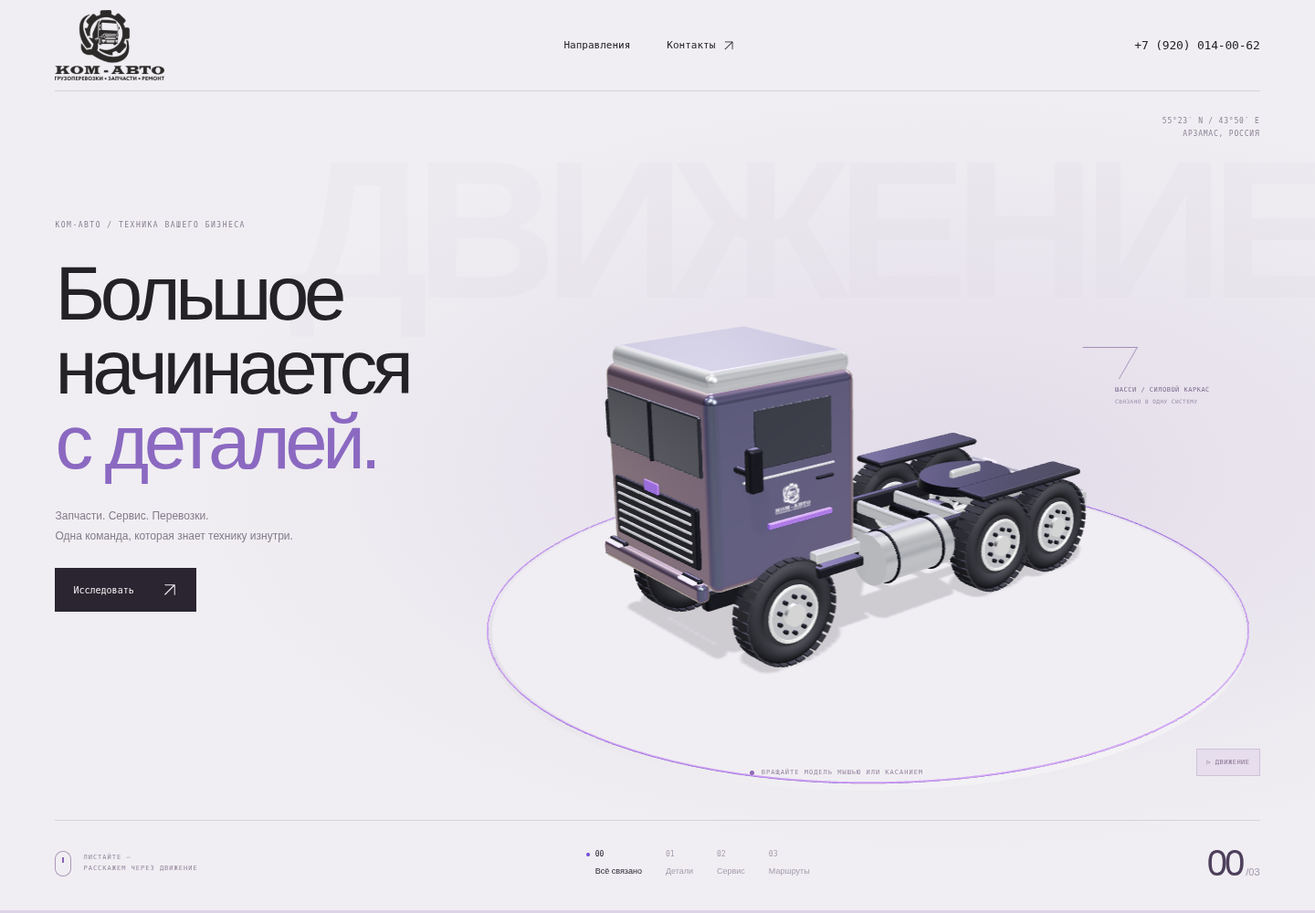
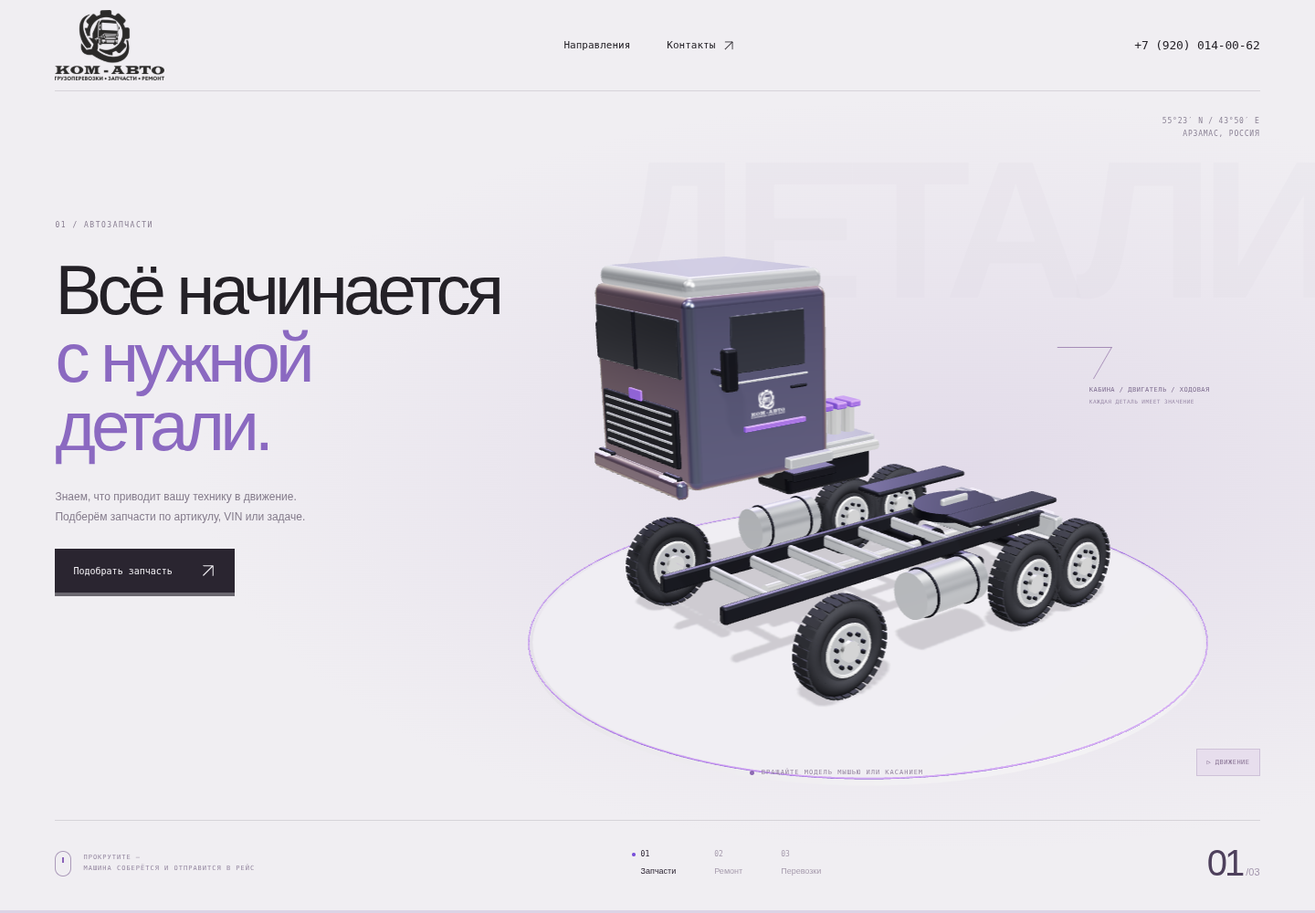
Connect parts, repair assembly and departure in one scroll story

diff --git a/src/experience.js b/src/experience.js
@@ -1,13 +1,13 @@
 import './experience.css';
+import { chapterPositions, getStoryState } from './experience/story-state.js';
 
 const base = import.meta.env.BASE_URL;
 const link = (route) => base === '/' ? route : `${base}?page=${route.replace(/^\//,'')}`;
 const arrow = '<svg viewBox="0 0 24 24" aria-hidden="true"><path d="M5 19 19 5M5 5h14v14"/></svg>';
 const chapters = [
-  {eyebrow:'КОМ-АВТО / ТЕХНИКА ВАШЕГО БИЗНЕСА', title:'Большое<br>начинается<br><em>с деталей.</em>', description:'Запчасти. Сервис. Перевозки. <br>Одна команда, которая знает технику изнутри.', button:'Исследовать', word:'ДВИЖЕНИЕ', label:'Всё связано', detail:'01 / ИНЖЕНЕРИЯ ДВИЖЕНИЯ'},
-  {eyebrow:'01 / ЗАПЧАСТИ ДЛЯ ГРУЗОВОЙ ТЕХНИКИ', title:'У каждой<br>детали —<br><em>своя сила.</em>', description:'От расходников до сложных узлов. <br>Подбираем по артикулу, VIN или вашей задаче.', button:'Подобрать запчасть', word:'ИЗНУТРИ', label:'Сила деталей', detail:'02 / ОТ ЦЕЛОГО К ДЕТАЛЯМ'},
-  {eyebrow:'02 / ГРУЗОВОЙ АВТОСЕРВИС', title:'Вернуть<br>в рабочий<br><em>ритм.</em>', description:'Техническое обслуживание, ремонт и помощь <br>на дороге в Арзамасе и районе.', button:'Обсудить ремонт', word:'ТОЧНОСТЬ', label:'В рабочем ритме', detail:'03 / ВНИМАНИЕ К КАЖДОМУ УЗЛУ'},
-  {eyebrow:'03 / ГРУЗОПЕРЕВОЗКИ', title:'Расстояния<br>становятся<br><em>маршрутами.</em>', description:'Подбираем транспорт и организуем перевозку. <br>Из Арзамаса — по России и СНГ.', button:'Запросить расчёт', word:'ДАЛЬШЕ', label:'Впереди — маршрут', detail:'04 / ОТ ЗАДАЧИ ДО ТОЧКИ НАЗНАЧЕНИЯ'},
+  {eyebrow:'01 / АВТОЗАПЧАСТИ', title:'Всё начинается<br><em>с нужной<br>детали.</em>', description:'Знаем, что приводит вашу технику в движение. <br>Подберём запчасти по артикулу, VIN или задаче.', button:'Подобрать запчасть', word:'ДЕТАЛИ', label:'Запчасти'},
+  {eyebrow:'02 / ГРУЗОВОЙ АВТОСЕРВИС', title:'Каждый узел.<br>На своём<br><em>месте.</em>', description:'От отдельных деталей — к работающей машине. <br>Ремонт и обслуживание в Арзамасе и районе.', button:'Обсудить ремонт', word:'СОБИРАЕМ', label:'Ремонт'},
+  {eyebrow:'03 / ГРУЗОПЕРЕВОЗКИ', title:'Машина готова.<br><em>Впереди —<br>ваш маршрут.</em>', description:'Техника в работе. Груз в пути. <br>Организуем перевозку по России и СНГ.', button:'Запросить расчёт', word:'В РЕЙС', label:'Перевозки'},
 ];
 const logo = `<a class="x-logo" href="${base}" aria-label="КОМ-АВТО — главная"><img src="${base}images/logo-dark.png" alt="КОМ-АВТО. Грузоперевозки · Запчасти · Ремонт" width="210" height="134"></a>`;
 
@@ -17,14 +17,14 @@ document.querySelector('#app').innerHTML = `<div class="x-site">
 <section class="x-story" aria-label="Запчасти, сервис и перевозки КОМ-АВТО">
  <div class="x-stage">
   <header class="x-header">${logo}<nav aria-label="Навигация"><a href="#x-directions">Направления</a><a href="${link('/contacts')}">Контакты ${arrow}</a></nav><a class="x-header-phone" href="tel:+79200140062">+7 (920) 014-00-62</a></header>
-  <div class="x-ghost" aria-hidden="true">ДВИЖЕНИЕ</div>
+  <div class="x-ghost" aria-hidden="true">ДЕТАЛИ</div>
   <div class="x-coordinates" aria-hidden="true">55°23′ N / 43°50′ E<br>АРЗАМАС, РОССИЯ</div>
   <div class="x-canvas-wrap"><img class="x-fallback" src="${base}images/truck.webp" alt="Грузовой тягач" width="1080" height="686"><canvas class="x-canvas" tabindex="0" role="img" aria-label="Интерактивная стилизованная 3D-модель грузовика. Вращайте перетаскиванием или стрелками влево и вправо."></canvas><span class="x-loading">СОБИРАЕМ ДВИЖЕНИЕ<span></span></span></div>
-  <div class="x-chapter-copy" id="x-content"><p class="x-eyebrow" id="x-eyebrow">${chapters[0].eyebrow}</p><h1 id="x-title">${chapters[0].title}</h1><p class="x-description" id="x-description">${chapters[0].description}</p><button class="x-primary" id="x-action">Исследовать ${arrow}</button></div>
-  <div class="x-part-note" aria-hidden="true"><span></span><p id="x-technical-label">ШАССИ / СИЛОВОЙ КАРКАС</p><small>СВЯЗАНО В ОДНУ СИСТЕМУ</small></div>
+  <div class="x-chapter-copy" id="x-content"><p class="x-eyebrow" id="x-eyebrow">${chapters[0].eyebrow}</p><h1 id="x-title">${chapters[0].title}</h1><p class="x-description" id="x-description">${chapters[0].description}</p><button class="x-primary" id="x-action">${chapters[0].button} ${arrow}</button></div>
+  <div class="x-part-note" aria-hidden="true"><span></span><p id="x-technical-label">КАБИНА / ДВИГАТЕЛЬ / ХОДОВАЯ</p><small>КАЖДАЯ ДЕТАЛЬ ИМЕЕТ ЗНАЧЕНИЕ</small></div>
   <button class="x-motion-toggle" aria-pressed="false" aria-label="Остановить автоматическое движение">Ⅱ ПАУЗА</button><div class="x-orbit-label"><span class="x-status-dot"></span><span id="x-interaction-hint">ВРАЩАЙТЕ МОДЕЛЬ МЫШЬЮ ИЛИ КАСАНИЕМ</span></div>
-  <div class="x-route-note" hidden><span>АРЗАМАС</span><span>РОССИЯ И СНГ</span><small>СХЕМА МАРШРУТА · НЕ ТРЕКИНГ</small></div>
-  <div class="x-chapter-footer"><div class="x-scroll"><span class="x-scroll-icon" aria-hidden="true"></span><span>ЛИСТАЙТЕ —<br>РАССКАЖЕМ ЧЕРЕЗ ДВИЖЕНИЕ</span></div><nav class="x-chapters" aria-label="Сцены"><button aria-label="Сцена 1: грузовик" aria-current="step" data-chapter="0"><span>00</span>Всё связано</button><button aria-label="Сцена 2: запчасти" data-chapter="1"><span>01</span>Детали</button><button aria-label="Сцена 3: сервис" data-chapter="2"><span>02</span>Сервис</button><button aria-label="Сцена 4: перевозки" data-chapter="3"><span>03</span>Маршруты</button></nav><span class="x-scene-number" aria-hidden="true">00<span>/03</span></span></div>
+  <div class="x-route-note" hidden><span>ГОТОВА К РЕЙСУ</span><span>РОССИЯ И СНГ</span><small>ИЛЛЮСТРАЦИЯ ПЕРЕВОЗКИ · НЕ ТРЕКИНГ</small></div>
+  <div class="x-chapter-footer"><div class="x-scroll"><span class="x-scroll-icon" aria-hidden="true"></span><span>ПРОКРУТИТЕ —<br>МАШИНА СОБЕРЁТСЯ И ОТПРАВИТСЯ В РЕЙС</span></div><nav class="x-chapters" aria-label="Сцены">${chapters.map((chapter,index)=>`<button aria-label="Сцена ${index+1}: ${chapter.label}" ${index===0?'aria-current="step"':''} data-chapter="${index}"><span>0${index+1}</span>${chapter.label}</button>`).join('')}</nav><span class="x-scene-number" aria-hidden="true">01<span>/03</span></span></div>
   <div class="x-progress" aria-hidden="true"><span></span></div>
  </div>
 </section>
@@ -49,9 +49,9 @@ let active = 0;
 let scene;
 let progress = 0;
 let destroyed = false;
-const sceneButtons = [...document.querySelectorAll('[data-chapter]')];
+const sceneButtons = [...document.querySelectorAll('.x-chapters button')];
 function goToChapter(index) {
- const top = story.offsetTop + (story.offsetHeight - stage.offsetHeight) * (index / 3);
+ const top = story.offsetTop + (story.offsetHeight - stage.offsetHeight) * chapterPositions[index];
  scrollTo({top, behavior:reduce.matches ? 'instant':'smooth'});
 }
 function showChapter(index) {
@@ -63,10 +63,10 @@ function showChapter(index) {
  document.querySelector('#x-description').innerHTML=chapter.description;
  document.querySelector('#x-action').innerHTML=chapter.button+' '+arrow;
  document.querySelector('.x-ghost').textContent=chapter.word;
- document.querySelector('.x-scene-number').innerHTML=`0${index}<span>/03</span>`;
- document.querySelector('#x-technical-label').textContent=['ШАССИ / СИЛОВОЙ КАРКАС','ДВИГАТЕЛЬ / КАБИНА / ХОДОВАЯ','КОЛЕСО / ТОЧКА КОНТАКТА','МАРШРУТ / ОТ ТОЧКИ К ТОЧКЕ'][index];
- document.querySelector('.x-route-note').hidden=index!==3;
- document.querySelector('.x-part-note').hidden=index===3;
+ document.querySelector('.x-scene-number').innerHTML=`0${index+1}<span>/03</span>`;
+ document.querySelector('#x-technical-label').textContent=['КАБИНА / ДВИГАТЕЛЬ / ХОДОВАЯ','СОБИРАЕМ В ОДНУ СИСТЕМУ','ГОТОВАЯ МАШИНА / НОВЫЙ МАРШРУТ'][index];
+ document.querySelector('.x-route-note').hidden=index!==2;
+ document.querySelector('.x-part-note').hidden=index===2;
  stage.dataset.chapter=String(index);
  sceneButtons.forEach((button,i)=>{if(i===index)button.setAttribute('aria-current','step');else button.removeAttribute('aria-current');});
 }
@@ -76,7 +76,7 @@ function updateScroll() {
  if(destroyed)return;
  const distance=story.offsetHeight-stage.offsetHeight;
  progress=distance>0?Math.max(0,Math.min(1,(scrollY-story.offsetTop)/distance)):0;
- showChapter(Math.min(3,Math.floor(progress*3+0.48)));
+ showChapter(getStoryState(progress).chapter);
  document.querySelector('.x-progress span').style.transform=`scaleX(${progress})`;
  scene?.setProgress(progress);
 }
@@ -92,7 +92,7 @@ function contact(id){
  document.querySelector('#x-dialog-extra').innerHTML=cargo?'Дополнительный контакт: <a href="tel:+79200140062">+7 (920) 014-00-62</a>':'';
  dialog.showModal();
 }
- document.querySelector('#x-action').addEventListener('click',()=>active===0?goToChapter(1):contact(['','parts','service','cargo'][active]));
+ document.querySelector('#x-action').addEventListener('click',()=>contact(['parts','service','cargo'][active]));
  document.querySelectorAll('[data-contact]').forEach(button=>button.addEventListener('click',()=>contact(button.dataset.contact)));
  document.querySelector('.x-close').addEventListener('click',()=>dialog.close());
  dialog.addEventListener('click',e=>{if(e.target===dialog){const r=dialog.getBoundingClientRect();if(e.clientX<r.left||e.clientX>r.right||e.clientY<r.top||e.clientY>r.bottom)dialog.close();}});

diff --git a/src/experience/scene.js b/src/experience/scene.js
@@ -1,4 +1,5 @@
 import * as THREE from 'three';
+import { getStoryState } from './story-state.js';
 import { RoundedBoxGeometry } from 'three/addons/geometries/RoundedBoxGeometry.js';
 import { RoomEnvironment } from 'three/addons/environments/RoomEnvironment.js';
 
@@ -23,8 +24,9 @@ export function createTruckScene(canvas,{reducedMotion=false}={}) {
  const violetLight=new THREE.MeshStandardMaterial({color:'#cfbcff',emissive:'#8a60ff',emissiveIntensity:1.8});
  const chrome=new THREE.MeshStandardMaterial({color:'#e5e6e7',metalness:1,roughness:.13});
  const ground=new THREE.Mesh(new THREE.PlaneGeometry(200,200),new THREE.ShadowMaterial({opacity:.12}));ground.rotation.x=-Math.PI/2;ground.receiveShadow=true;ground.position.y=-.02;scene.add(ground);
- const turntable=new THREE.Mesh(new THREE.CylinderGeometry(4.65,4.7,.07,100),new THREE.MeshStandardMaterial({color:'#c7bfd0',metalness:.15,roughness:.8}));turntable.position.y=-.075;turntable.receiveShadow=true;scene.add(turntable);
- const ring=new THREE.Mesh(new THREE.TorusGeometry(4.7,.008,6,128),purple);ring.rotation.x=Math.PI/2;ring.position.y=-.025;scene.add(ring);
+ const turntable=new THREE.Mesh(new THREE.CylinderGeometry(4.65,4.7,.07,100),new THREE.MeshStandardMaterial({color:'#c7bfd0',metalness:.15,roughness:.8,transparent:true}));turntable.material.depthWrite=false;turntable.position.y=-.075;turntable.receiveShadow=true;scene.add(turntable);
+ const ringMaterial=purple.clone();ringMaterial.transparent=true;ringMaterial.depthWrite=false;
+ const ring=new THREE.Mesh(new THREE.TorusGeometry(4.7,.008,6,128),ringMaterial);ring.rotation.x=Math.PI/2;ring.position.y=-.025;scene.add(ring);
  const truck=new THREE.Group();scene.add(truck);
  const chassis=new THREE.Group();truck.add(chassis);
  function mesh(geo,mat,parent,x=0,y=0,z=0){const o=new THREE.Mesh(geo,mat);o.position.set(x,y,z);o.castShadow=true;o.receiveShadow=true;parent.add(o);return o;}
@@ -107,47 +109,73 @@ export function createTruckScene(canvas,{reducedMotion=false}={}) {
  }
  [-.4,.4].forEach(z=>{const pipe=cyl(.07,.07,1.48,chrome,engine,0,.42,z);pipe.rotation.z=Math.PI/2;});
  const engineFan=mesh(new THREE.TorusGeometry(.23,.04,8,24),silver,engine,-.8,.42,0);engineFan.rotation.y=Math.PI/2;
- const service=new THREE.Group();scene.add(service);service.visible=false;
- const serviceWheel=wheel(service,0,1.8,0);serviceWheel.scale.setScalar(2.5);serviceWheel.rotation.y=-.2;
- const serviceRing=mesh(new THREE.TorusGeometry(1.9,.012,6,100),purple,service,0,1.8,0);
- const scanner=box(4,.015,.015,violetLight,service,0,1.8,1.6,.005);
- const route=new THREE.Group();scene.add(route);route.visible=false;
- const points=[new THREE.Vector3(-4,.02,.6),new THREE.Vector3(-2,.02,-1.5),new THREE.Vector3(0,.02,-.9),new THREE.Vector3(2,.02,1.2),new THREE.Vector3(4,.02,.3)];
- const curve=new THREE.CatmullRomCurve3(points);
- mesh(new THREE.TubeGeometry(curve,120,.045,8,false),purple,route);
- const road=mesh(new THREE.TubeGeometry(curve,120,.18,8,false),new THREE.MeshStandardMaterial({color:'#d7d1e4',roughness:.8}),route);road.scale.y=.05;road.position.y=-.005;
- [points[0],points[4]].forEach(p=>{const marker=cyl(.1,.1,.07,purple,route,p.x,.07,p.z);const r=mesh(new THREE.TorusGeometry(.28,.02,8,40),purple,route,p.x,.04,p.z);r.rotation.x=Math.PI/2;});
+ // A full-size road grows out of the studio floor. The same assembled truck
+ // follows it; no miniature replacement or separate service-wheel scene.
+ const route=new THREE.Group();scene.add(route);
+ const driveCurve=new THREE.CatmullRomCurve3([
+  new THREE.Vector3(0,0,0),new THREE.Vector3(-.7,0,0),
+  new THREE.Vector3(-1.5,0,-2),new THREE.Vector3(.8,0,-4),new THREE.Vector3(6.6,0,-4),
+ ]);
+ const roadCurve=new THREE.CatmullRomCurve3([
+  new THREE.Vector3(4.5,.005,0),new THREE.Vector3(0,.005,0),
+  new THREE.Vector3(-1.5,.005,-2),new THREE.Vector3(.8,.005,-4),new THREE.Vector3(8,.005,-4),
+ ]);
+ const roadMaterial=new THREE.MeshBasicMaterial({color:'#c7c0d0',transparent:true,opacity:0,side:THREE.DoubleSide,depthWrite:false});
+ const roadLineMaterial=new THREE.MeshBasicMaterial({color:'#a08cb8',transparent:true,opacity:0,depthWrite:false});
+ function roadStrip(curve,width){
+  const vertices=[],indices=[];
+  for(let i=0;i<=100;i++){
+   const t=i/100,p=curve.getPoint(t),tangent=curve.getTangent(t);
+   const side=new THREE.Vector3(-tangent.z,0,tangent.x).normalize().multiplyScalar(width/2);
+   vertices.push(p.x+side.x,p.y,p.z+side.z,p.x-side.x,p.y,p.z-side.z);
+   if(i<100){const n=i*2;indices.push(n,n+1,n+2,n+1,n+3,n+2);}
+  }
+  const geometry=new THREE.BufferGeometry();geometry.setAttribute('position',new THREE.Float32BufferAttribute(vertices,3));geometry.setIndex(indices);geometry.computeVertexNormals();return geometry;
+ }
+ const roadMesh=mesh(roadStrip(roadCurve,2.75),roadMaterial,route);roadMesh.castShadow=false;roadMesh.receiveShadow=false;
+ const centerline=mesh(new THREE.TubeGeometry(roadCurve,100,.018,6,false),roadLineMaterial,route);centerline.position.y=.01;centerline.castShadow=false;
+ const guide=new THREE.Group();truck.add(guide);
+ const guideMaterial=new THREE.LineBasicMaterial({color:'#a58bc4',transparent:true,opacity:.3});
+ [-1,1].forEach(sign=>{
+  const geo=new THREE.BufferGeometry().setFromPoints([new THREE.Vector3(-2.1,.65,sign*1.02),new THREE.Vector3(-2.1,.65,sign*2.05)]);
+  guide.add(new THREE.Line(geo,guideMaterial));
+ });
   let progress=0;let drag=0;let down=false;let px=0;let disposed=false;let inView=true;let frame=0;let lastTime=0;let autoAngle=0;
- const initialCab=cab.position.clone();
  function resize(){const rect=canvas.getBoundingClientRect();if(!rect.width||!rect.height)return;renderer.setSize(rect.width,rect.height,false);camera.aspect=rect.width/rect.height;camera.fov=rect.width<600?39:31;camera.updateProjectionMatrix();}
- const resizeObserver=new ResizeObserver(resize);resizeObserver.observe(canvas);resize();
+ resize();
  const visibility=new IntersectionObserver(entries=>{inView=entries[0].isIntersecting;if(inView)requestRender();});visibility.observe(canvas);
-  const smooth=(a,b,p)=>THREE.MathUtils.smoothstep(p,a,b);
  function render(time=0){
   frame=0;if(disposed||document.hidden||!inView)return;
   const dt=Math.min((time-lastTime)/1000,.05)||0;lastTime=time;
   if(!reducedMotion&&!down)autoAngle+=dt*.045;
-  const phase=progress*3;
-  const explode=smooth(.2,.9,phase)*(1-smooth(1.05,1.65,phase));
-  const isService=phase>=1.55&&phase<2.58;const isRoute=phase>=2.58;
-  truck.visible=!isService;service.visible=isService;route.visible=isRoute;
-  const angle=drag+(reducedMotion?0:Math.sin(autoAngle)*.1);
-  truck.rotation.y=angle+(isRoute?-.15:0);
-  cab.position.copy(initialCab);cab.position.y=explode*1.55;cab.position.x=-explode*.45;
-  engine.position.set(-1.4+explode*.3,1.17+explode*.85,0);
-  wheels.forEach(w=>{w.position.copy(w.userData.base);w.position.z+=Math.sign(w.position.z)*explode*.85;w.rotation.z=isRoute?-time*.0005:0;});
-  tanks.forEach(t=>{t.position.copy(t.userData.base);t.position.z+=Math.sign(t.position.z)*explode*.8;});
-  if(isRoute){
-   const t=reducedMotion?.52:Math.max(.12,Math.min(.88,.06+(phase-2.58)*2.1));const p=curve.getPoint(t);const tangent=curve.getTangent(t);
-   truck.scale.setScalar(.34);truck.position.set(p.x,.04,p.z);truck.rotation.y=Math.atan2(tangent.z,-tangent.x)+drag*.25;
-  }else{truck.scale.setScalar(1);truck.position.set(0,0,0);}
-  service.rotation.y=angle*.7;
-  serviceWheel.rotation.z=reducedMotion?0:Math.sin(time*.0003)*.14;
-  scanner.position.y=1.8+(reducedMotion?0:Math.sin(time*.0015)*1.35);
-  serviceRing.rotation.z=reducedMotion?0:time*.00005;
-  const targetY=isService?1.7:isRoute?.25:explode>.2?1.8:1.4;
-  camera.zoom=canvas.clientWidth<600?(isService?1.4:isRoute?1.12:explode>.2?1.17:1.45):1.08;camera.updateProjectionMatrix();
-  camera.lookAt(0,targetY,0);
+  const state=getStoryState(progress);
+  // Stagger the assembly so the eye can follow each group of components.
+  cab.position.set(-state.cabLift*.45,state.cabLift*1.55,0);
+  engine.position.set(-1.4+state.engineLift*.45,1.17+state.engineLift*.9,0);
+  wheels.forEach(w=>{
+   w.position.copy(w.userData.base);
+   w.position.z+=Math.sign(w.position.z)*state.wheelSpread*.9;
+   w.rotation.z=state.departure*18;
+  });
+  tanks.forEach(t=>{t.position.copy(t.userData.base);t.position.z+=Math.sign(t.position.z)*state.tankSpread*.8;});
+  const drive=driveCurve.getPoint(state.departure);
+  const tangent=driveCurve.getTangent(state.departure);
+  const idle=reducedMotion?0:Math.sin(autoAngle)*.08;
+  truck.position.copy(drive);
+  truck.rotation.y=Math.atan2(tangent.z,-tangent.x)+(drag+idle)*(1-state.departure*.85);
+  // Rotate toward the road gradually, with a continuous size throughout.
+  truck.scale.setScalar(1);
+  turntable.material.opacity=1-state.road;ringMaterial.opacity=1-state.road;
+  roadMaterial.opacity=state.road*.85;roadLineMaterial.opacity=state.road*.8;
+  guideMaterial.opacity=state.wheelSpread*.28;guide.visible=state.wheelSpread>.01;
+  violetLight.emissiveIntensity=.4+state.assembly*1.4;
+  const mobile=canvas.clientWidth<600;
+  const zoom=mobile?THREE.MathUtils.lerp(1.08,1.4,state.assembly)-state.departure*.18:THREE.MathUtils.lerp(.96,1.08,state.assembly)-state.departure*.12;
+  if(camera.zoom!==zoom){camera.zoom=zoom;camera.updateProjectionMatrix();}
+  camera.position.set(-10+state.departure*1.5,6.3+state.departure*.5,11.5+state.departure);
+  camera.lookAt(drive.x*.15,1.4+(1-state.assembly)*.4,drive.z*.15);
+  // State metadata is useful for accessibility diagnostics and smoke tests.
+  canvas.dataset.pose=state.departure>0?'departing':state.assembly>=1?'assembled':state.assembly>0?'assembling':'exploded';
   renderer.render(scene,camera);
   if(!reducedMotion&&!document.hidden&&inView)frame=requestAnimationFrame(render);
  }
@@ -157,7 +185,6 @@ export function createTruckScene(canvas,{reducedMotion=false}={}) {
  const release=()=>{down=false;canvas.classList.remove('is-dragging');};canvas.addEventListener('pointerup',release);canvas.addEventListener('pointercancel',release);
  canvas.addEventListener('keydown',e=>{if(e.key==='ArrowLeft'||e.key==='ArrowRight'){e.preventDefault();drag+=e.key==='ArrowLeft'?-.15:.15;requestRender();}});
  document.addEventListener('visibilitychange',requestRender);
- resizeObserver.disconnect(); // Install a redraw-aware resize callback after renderer construction.
  const observer=new ResizeObserver(()=>{resize();requestRender();});observer.observe(canvas);
  renderer.render(scene,camera);requestRender();
  return {

diff --git a/src/experience.css b/src/experience.css
@@ -10,3 +10,6 @@
 @media(max-width:1050px){.x-motion-toggle{bottom:18%;font-size:6px}}
 @media(max-width:700px){.x-motion-toggle{bottom:17%;right:6%;font-size:5px;min-height:26px;padding:6px 8px}.x-orbit-label{bottom:13.3%}}
 .x-logo img{width:120px;height:auto;display:block;object-fit:contain}.x-header .x-logo{align-self:center}.x-footer .x-logo img{width:103px}@media(max-width:700px){.x-header .x-logo img{width:87px}.x-footer .x-logo img{width:91px}}
+/* Three connected acts: parts -> repair/assembly -> departure. */
+.x-story{height:360svh}.x-chapters{gap:42px}.x-chapter-copy h1{font-size:clamp(50px,5.3vw,84px)}.x-primary{box-shadow:0 4px 0 #110d1799;transition:background .2s,transform .2s,box-shadow .2s}.x-primary:hover{transform:translateY(-2px);box-shadow:0 6px 0 #110d1744}.x-primary:active{transform:translateY(3px);box-shadow:0 1px 0 #110d1755}.x-direction:active .x-direction-arrow{transform:scale(.9)}.x-chapters button{transition:color .2s,transform .2s}.x-chapters button:active{transform:translateY(2px)}
+@media(max-width:700px){.x-story{height:350svh}.x-chapter-copy h1{font-size:clamp(35px,10vw,52px)}.x-chapters{gap:24px}.x-chapter-copy{max-width:92%}.x-description{max-width:85%}}

diff --git a/src/experience/story-state.js b/src/experience/story-state.js
@@ -1,0 +1,24 @@
+// All motion is derived from scroll position: reversing the scroll reverses
+// assembly and departure without timers, teleports or a second truck.
+const clamp = value => Math.max(0, Math.min(1, Number.isFinite(value) ? value : 0));
+const smooth = (start, end, progress) => {
+  const t = clamp((progress - start) / (end - start));
+  return t * t * (3 - 2 * t);
+};
+
+export const chapterPositions = [0, 0.5, 0.88];
+
+export function getStoryState(value) {
+  const progress = clamp(value);
+  return {
+    progress,
+    chapter: progress < 0.28 ? 0 : progress < 0.74 ? 1 : 2,
+    assembly: smooth(0.12, 0.66, progress),
+    wheelSpread: 1 - smooth(0.12, 0.34, progress),
+    tankSpread: 1 - smooth(0.23, 0.44, progress),
+    engineLift: 1 - smooth(0.31, 0.52, progress),
+    cabLift: 1 - smooth(0.4, 0.66, progress),
+    road: smooth(0.7, 0.82, progress),
+    departure: smooth(0.8, 1, progress),
+  };
+}

diff --git a/README.md b/README.md
@@ -4,11 +4,11 @@
 
 ![Анимированный просмотр новой концепции КОМ-АВТО](docs/previews/experience.gif)
 
-Текущая главная — интерактивная концепция «Большое начинается с деталей». Стилизованный грузовик, созданный из геометрии Three.js, меняется при прокрутке: собранная машина → разборка на узлы → колесо для раздела сервиса → схема маршрута. Это демонстрационная модель, не точная инженерная копия конкретной марки. Используется настоящий логотип КОМ-АВТО с подписью «Грузоперевозки · Запчасти · Ремонт»: исходные PNG с действующего сайта сохранены без изменения в `public/images/logo-white.png` и `logo-dark.png`. Знак размещён также на кабине модели.
+Текущая главная — история «Запчасти → Ремонт → Перевозки» по сценарию владельца. Сначала грузовик уже разобран на узлы. При прокрутке колёса, баки, двигатель и кабина по очереди занимают свои места. После завершения сборки эта же машина поворачивает и выезжает на дорогу. Обратная прокрутка воспроизводит движение назад. Отдельной сцены с колесом и подмены машины миниатюрой больше нет. Это демонстрационная модель Three.js, не точная инженерная копия конкретной марки. Используется настоящий логотип КОМ-АВТО с подписью «Грузоперевозки · Запчасти · Ремонт»: исходные PNG с действующего сайта сохранены без изменения в `public/images/logo-white.png` и `logo-dark.png`. Знак размещён также на кабине модели.
 
 Модель вращается перетаскиванием и стрелками клавиатуры; вертикальная прокрутка на сенсорном экране сохраняется. Кнопки сцен позволяют пропускать прокрутку. `prefers-reduced-motion` и кнопка паузы отключают автоматическое движение. Без WebGL отображается фотография, при этом направления и контакты продолжают работать. Маршрут схематический, без реального трекинга. Внутренние страницы пока сохраняют оформление предыдущего варианта; концепция подготовлена для оценки главной страницы.
 
-Вход: `src/bootstrap.js`; интерфейс и стили главной: `src/experience.js`, `src/experience.css`; 3D: `src/experience/scene.js`. Движок загружается отдельно после интерфейса; внешних CDN и загрузок 3D-моделей нет. Первый экран: `docs/screenshots/first-screen.png`; сцены: `scene-1.png`, `scene-2.png`, `scene-3.png`; анимированный обзор: `docs/previews/experience.gif`.
+Вход: `src/bootstrap.js`; интерфейс и стили главной: `src/experience.js`, `src/experience.css`; 3D: `src/experience/scene.js`; последовательность сборки: `src/experience/story-state.js`. `npm test` проверяет порядок сборки, завершение ремонта до выезда, отсутствие скачков и обратимость прокрутки. Движок загружается отдельно после интерфейса; внешних CDN и загрузок 3D-моделей нет. Первый экран: `docs/screenshots/first-screen.png`; сцены: `scene-1.png`, `assembled.png`, `scene-2.png`; анимированный обзор: `docs/previews/experience.gif`.
 
 ## Запуск
 

diff --git a/docs/STORYBOARD.md b/docs/STORYBOARD.md
@@ -1,0 +1,21 @@
+# Сценарий КОМ-АВТО: детали → машина → рейс
+
+Сценарий предложен владельцем 23 октября 2026 года. Референсы: https://dogstudio.co/ и https://www.duolingo.com/ . Используем собственную композицию и настоящий логотип КОМ-АВТО; чужие персонажи, модели и графика не переносятся.
+
+## 1. Автозапчасти
+
+Посетитель сразу видит машину в разборе: кабина, силовой узел, колёса и баки разнесены вокруг шасси. На экране понятный заголовок и кнопка подбора запчасти. Не требуется прокручивать отдельное вступление, чтобы понять деятельность компании.
+
+## 2. Ремонт
+
+Прокрутка последовательно возвращает узлы на места: колёса → баки → двигатель → кабина. Это одна сцена и одна машина, без переключения на отдельное изображение колеса. В этот момент текст и контактная кнопка относятся к сервису. Перед выездом есть участок полностью собранной неподвижной машины.
+
+## 3. Перевозки
+
+Площадка уступает место дороге. Готовый грузовик поворачивает и уезжает вдаль; размер модели не меняется скачком и не заменяется миниатюрой. Контактная кнопка ведёт к номеру перевозок, номер владельца остаётся дополнительным. Дорога — художественная иллюстрация, не реальное слежение за грузом.
+
+## Движение и доступность
+
+Прокрутка управляет сборкой и поездкой напрямую. Обратная прокрутка обращает последовательность. Между сценами можно перейти кнопками. Автоматическое покачивание можно выключить, настройка reduced motion учитывается. Без WebGL остаются фотография и работающие направления/контакты.
+
+Текущий вариант проверяет сценарий и движение. Финальное качество требует отдельной доработки самой 3D-модели, материалов, освещения и композиции на реальных телефонах. Не выдавать этот прототип за фотореалистичный результат уровня референсов.

diff --git a/docs/VALIDATION.md b/docs/VALIDATION.md
@@ -5,7 +5,8 @@
 - Production-сборка: `npm run build -- --base /sait/`.
 - В production-режиме отдельно проверяются CSS главной и внутренних страниц, подкаталог `/sait/`, локальные логотипы и возврат из контактов к направлениям через якорь.
 - Создание WebGL-сцены и отображение моделей проверены скриншотами, а не только наличием canvas.
-- Проверены четыре главы: собранный грузовик, разбор на узлы, колесо сервиса, маршрут.
+- Проверены три главы по уточнённому сценарию владельца: запчасти с уже разобранной машиной, последовательная сборка в разделе ремонта, выезд этой же собранной машины в разделе перевозок. Прокрутка назад возвращает разобранное состояние.
+- `npm test`: шесть проверок порядка сборки, полноты сборки до выезда, непрерывности движения и корректности границ сцен.
 - Проверены переходы по кнопкам глав, прокрутка, клавиатурное вращение.
 - Все заголовки проверены на ширинах 360, 390, 768, 1024 и 1440 пикселей.
 - Проверены окна связи, закрытие Escape, профильный номер перевозок и дополнительный номер владельца.
